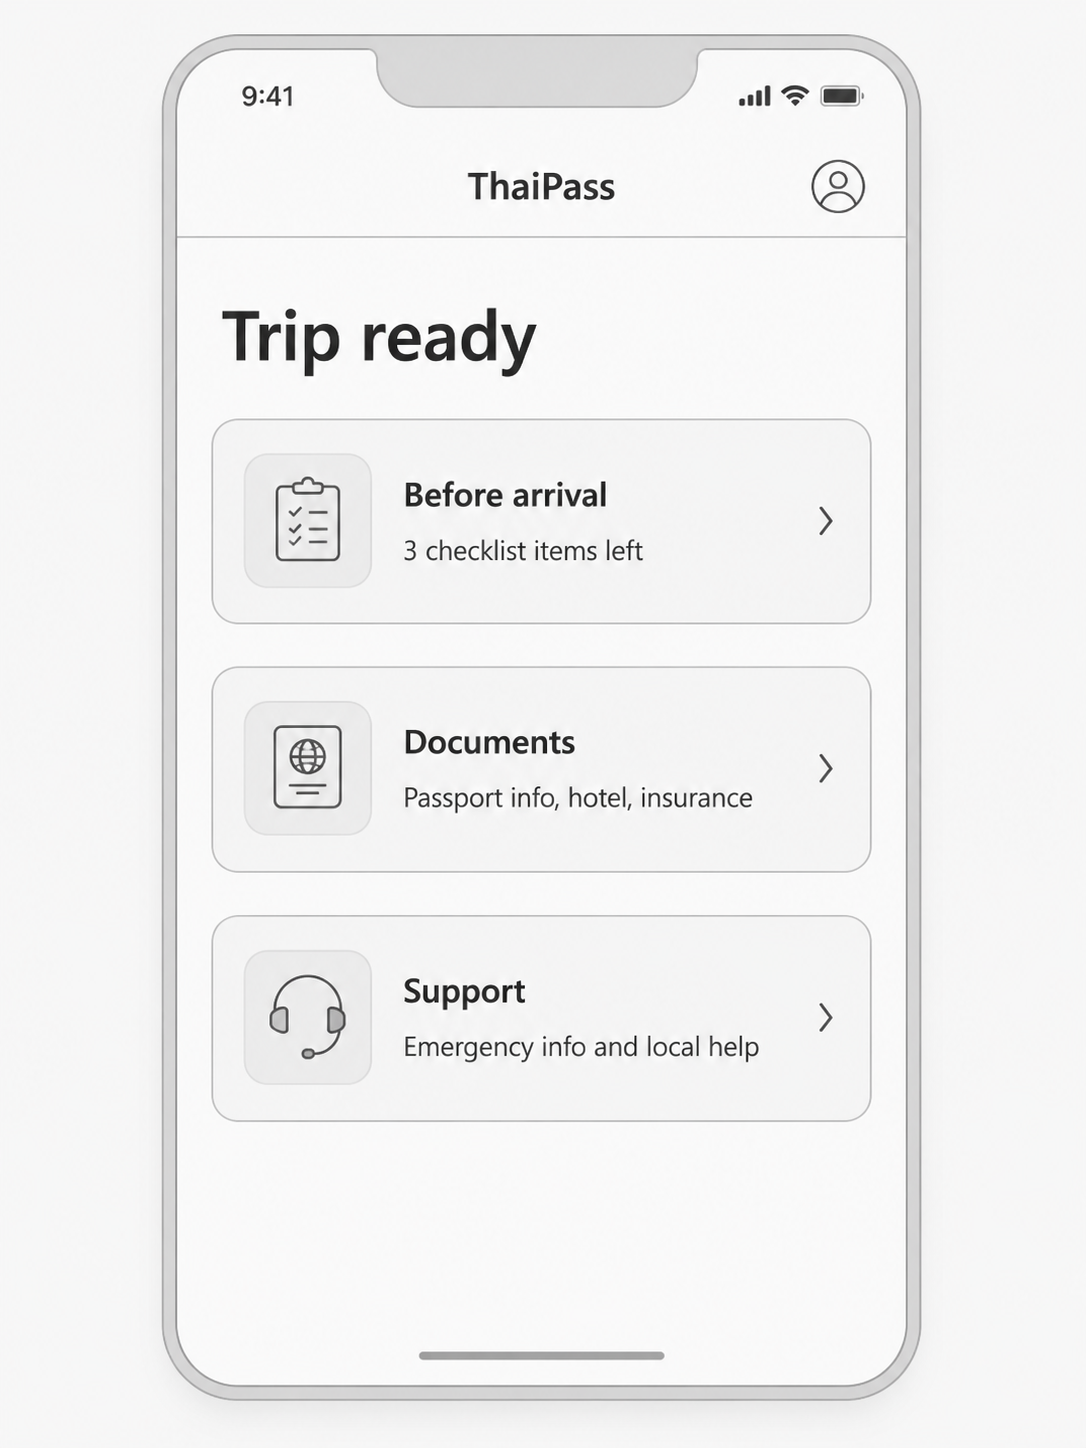
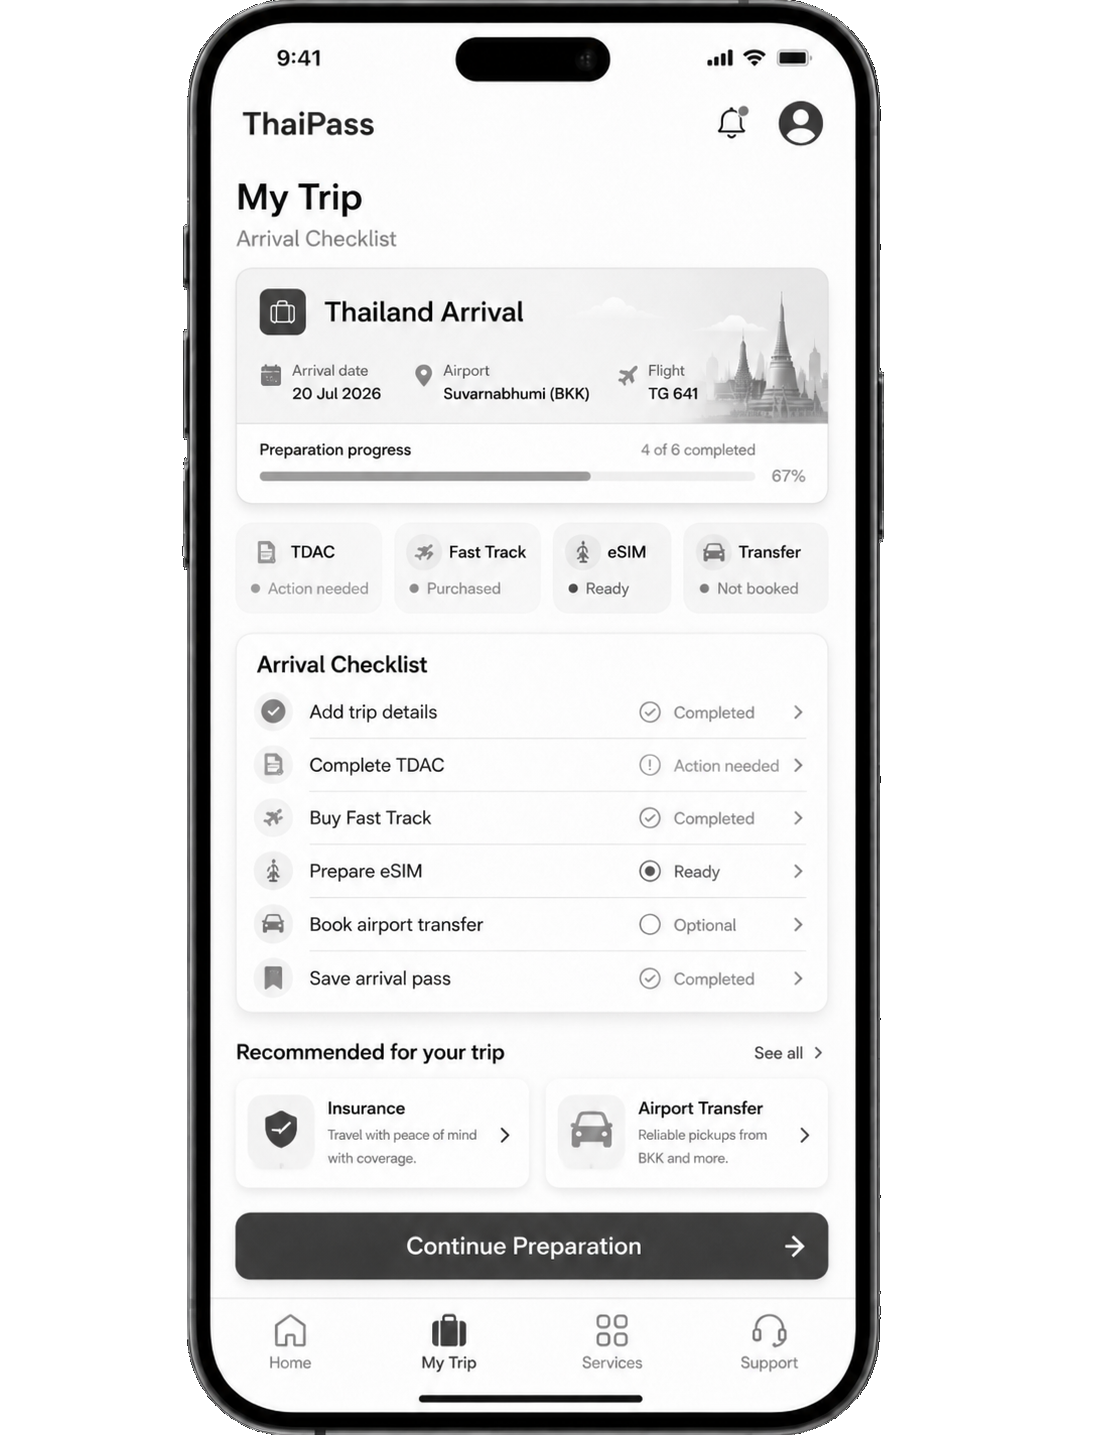
i

diff --git a/src/data/surveyQuestions.ts b/src/data/surveyQuestions.ts
@@ -10,16 +10,29 @@ export const surveyQuestions: Question[] = [
     placeholder: "Select your nationality",
     options: [
       "China",
-      "Hong Kong",
+      "Hong Kong SAR",
       "Taiwan",
-      "Singapore",
-      "Malaysia",
-      "India",
       "Japan",
       "South Korea",
-      "Europe",
-      "United States / Canada",
-      "Australia / New Zealand",
+      "Singapore",
+      "Malaysia",
+      "Vietnam",
+      "Indonesia",
+      "Philippines",
+      "India",
+      "Australia",
+      "United Kingdom",
+      "Germany",
+      "France",
+      "Italy",
+      "Spain",
+      "Netherlands",
+      "Switzerland",
+      "United States",
+      "Canada",
+      "Middle East (Other)",
+      "Europe (Other)",
+      "Asia (Other)",
       "Other",
     ],
     allowOther: true,